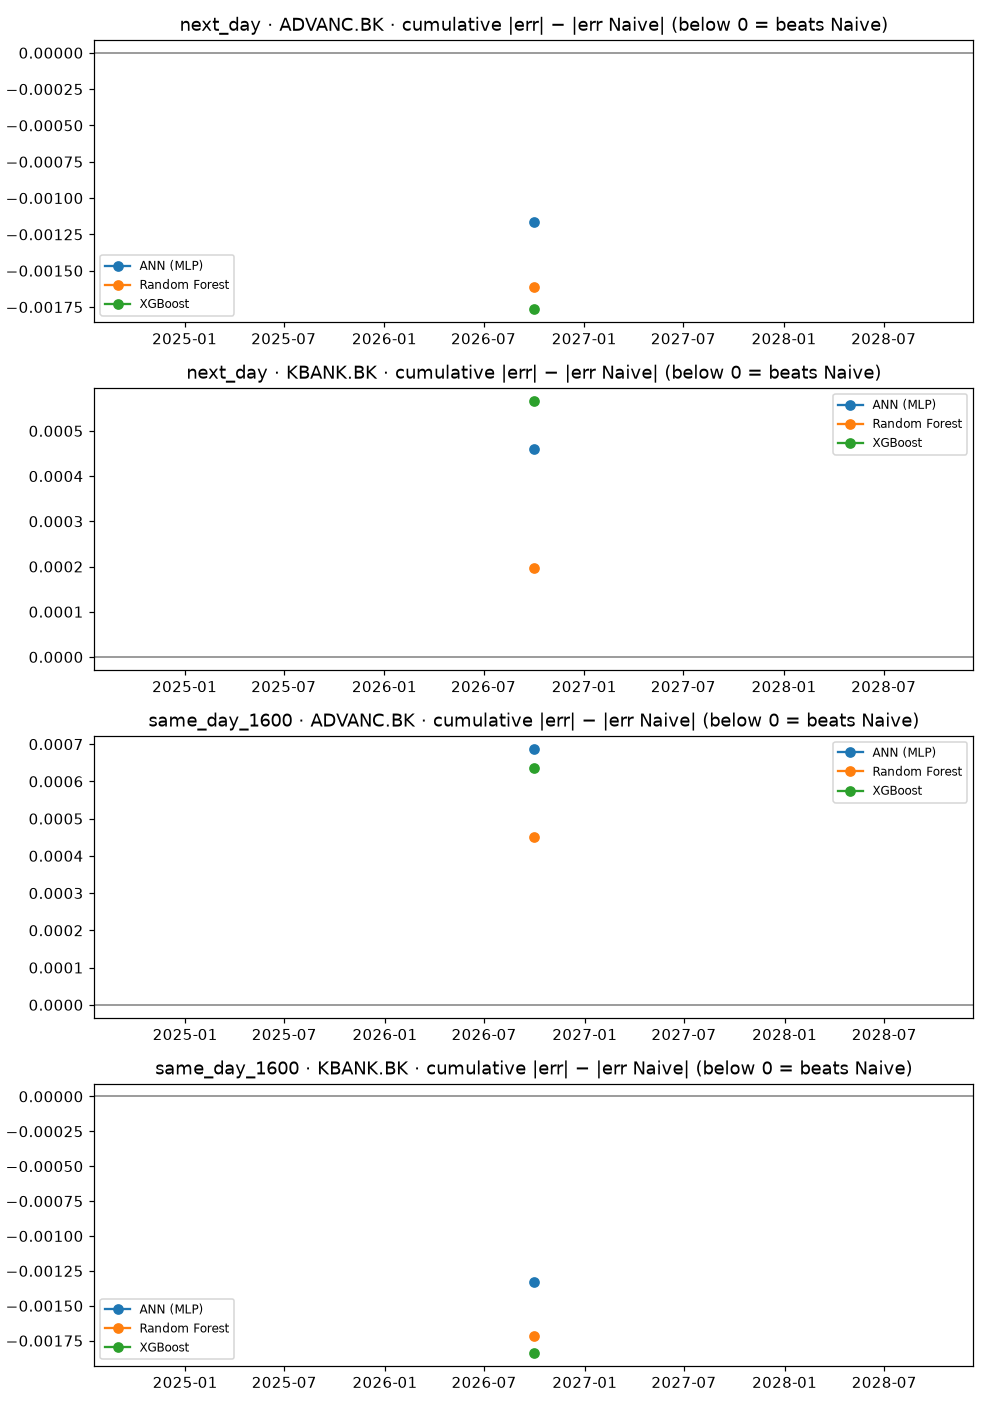
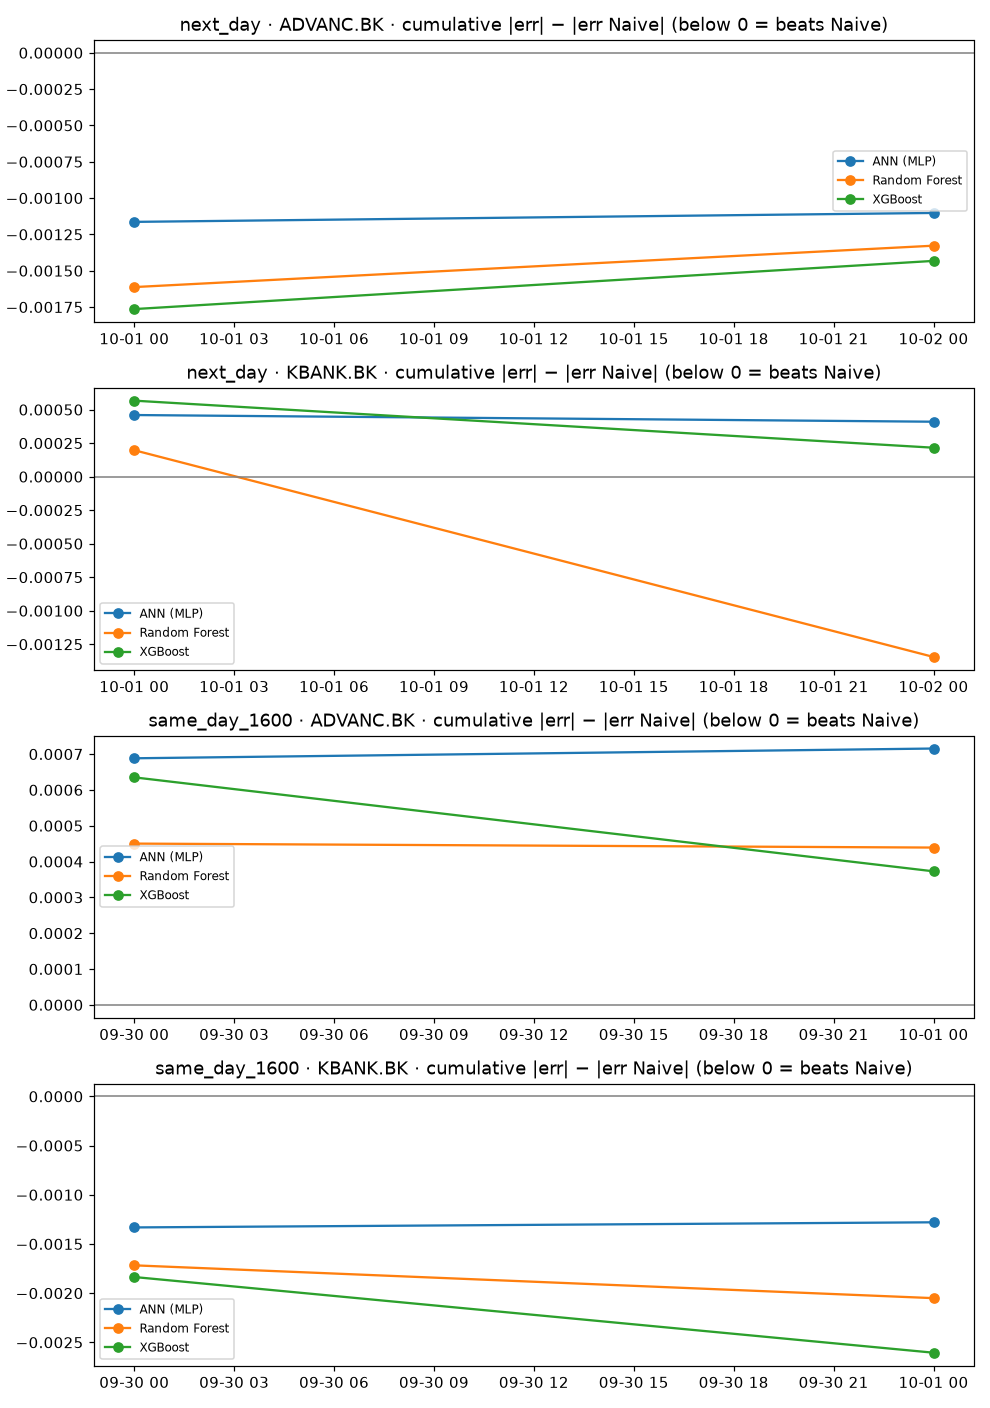
prediction log: 2026-10-05

diff --git a/task_b/results/live_report/live_report.md b/task_b/results/live_report/live_report.md
@@ -12,58 +12,23 @@
 
 | ticker | model | n | first_date | last_date | MAE_return | MAE_naive | relMAE | R2_OOS | RMSE_return | MAE_baht | wins | losses | ties | win_rate_ex_ties |
 |---|---|---|---|---|---|---|---|---|---|---|---|---|---|---|
-| ADVANC.BK | ANN (MLP) | 1 | 2026-10-01 | 2026-10-01 | 0.007608 | 0.008772 | 0.867323 | 0.247751 | 0.007608 | 2.601969 | 1 | 0 | 0 | 1.000000 |
-| ADVANC.BK | Random Forest | 1 | 2026-10-01 | 2026-10-01 | 0.007159 | 0.008772 | 0.816167 | 0.333872 | 0.007159 | 2.448501 | 1 | 0 | 0 | 1.000000 |
-| ADVANC.BK | XGBoost | 1 | 2026-10-01 | 2026-10-01 | 0.007008 | 0.008772 | 0.798899 | 0.361760 | 0.007008 | 2.396698 | 1 | 0 | 0 | 1.000000 |
-| KBANK.BK | ANN (MLP) | 1 | 2026-10-01 | 2026-10-01 | 0.004733 | 0.004274 | 1.107578 | -0.226729 | 0.004733 | 1.107578 | 0 | 1 | 0 | 0.000000 |
-| KBANK.BK | Random Forest | 1 | 2026-10-01 | 2026-10-01 | 0.004471 | 0.004274 | 1.046173 | -0.094477 | 0.004471 | 1.046173 | 0 | 1 | 0 | 0.000000 |
-| KBANK.BK | XGBoost | 1 | 2026-10-01 | 2026-10-01 | 0.004840 | 0.004274 | 1.132668 | -0.282937 | 0.004840 | 1.132668 | 0 | 1 | 0 | 0.000000 |
+| ADVANC.BK | ANN (MLP) | 2 | 2026-10-01 | 2026-10-02 | 0.003835 | 0.004386 | 0.874326 | 0.247702 | 0.005380 | 1.311581 | 1 | 1 | 0 | 0.500000 |
+| ADVANC.BK | Random Forest | 2 | 2026-10-01 | 2026-10-02 | 0.003722 | 0.004386 | 0.848647 | 0.332817 | 0.005066 | 1.273398 | 1 | 1 | 0 | 0.500000 |
+| ADVANC.BK | XGBoost | 2 | 2026-10-01 | 2026-10-02 | 0.003670 | 0.004386 | 0.836709 | 0.360330 | 0.004961 | 1.255562 | 1 | 1 | 0 | 0.500000 |
+| KBANK.BK | ANN (MLP) | 2 | 2026-10-01 | 2026-10-02 | 0.008779 | 0.008575 | 1.023900 | -0.015533 | 0.009667 | 2.047978 | 1 | 1 | 0 | 0.500000 |
+| KBANK.BK | Random Forest | 2 | 2026-10-01 | 2026-10-02 | 0.007902 | 0.008575 | 0.921583 | 0.193472 | 0.008615 | 1.843433 | 1 | 1 | 0 | 0.500000 |
+| KBANK.BK | XGBoost | 2 | 2026-10-01 | 2026-10-02 | 0.008683 | 0.008575 | 1.012595 | 0.020361 | 0.009495 | 2.025447 | 1 | 1 | 0 | 0.500000 |
 
 ### รูปร่างคำทำนาย ทิศทาง และสัญญาณ
 
 | ticker | model | Bias | StdRatio | Rho | zero_move_days | dir_hit_rate_moved_days | long_signal_days | long_signal_up_rate | prev_close_mismatch | enough_data |
 |---|---|---|---|---|---|---|---|---|---|---|
-| ADVANC.BK | ANN (MLP) | -0.007608 | NaN | NaN | 0 | 1.000000 | 0 | NaN | 0 | False |
-| ADVANC.BK | Random Forest | -0.007159 | NaN | NaN | 0 | 1.000000 | 0 | NaN | 0 | False |
-| ADVANC.BK | XGBoost | -0.007008 | NaN | NaN | 0 | 1.000000 | 0 | NaN | 0 | False |
-| KBANK.BK | ANN (MLP) | 0.004733 | NaN | NaN | 0 | 0.000000 | 0 | NaN | 0 | False |
-| KBANK.BK | Random Forest | 0.004471 | NaN | NaN | 0 | 0.000000 | 0 | NaN | 0 | False |
-| KBANK.BK | XGBoost | 0.004840 | NaN | NaN | 0 | 0.000000 | 0 | NaN | 0 | False |
-
-### ความครบและตรงเวลา
-
-| ticker | model | predictions | missing_trading_days | missing_dates | early_predictions | late_predictions |
-|---|---|---|---|---|---|---|
-| ADVANC.BK | ANN (MLP) | 1 | 0 |  | 0 | 0 |
-| ADVANC.BK | Random Forest | 1 | 0 |  | 0 | 0 |
-| ADVANC.BK | XGBoost | 1 | 0 |  | 0 | 0 |
-| KBANK.BK | ANN (MLP) | 1 | 0 |  | 0 | 0 |
-| KBANK.BK | Random Forest | 1 | 0 |  | 0 | 0 |
-| KBANK.BK | XGBoost | 1 | 0 |  | 0 | 0 |
-
-## same_day_1600
-
-### ความแม่นเทียบ Naive
-
-| ticker | model | n | first_date | last_date | MAE_return | MAE_naive | relMAE | R2_OOS | RMSE_return | MAE_baht | wins | losses | ties | win_rate_ex_ties |
-|---|---|---|---|---|---|---|---|---|---|---|---|---|---|---|
-| ADVANC.BK | ANN (MLP) | 1 | 2026-09-30 | 2026-09-30 | 0.000688 | 0.000000 | NaN | NaN | 0.000688 | 0.236766 | 0 | 1 | 0 | 0.000000 |
-| ADVANC.BK | Random Forest | 1 | 2026-09-30 | 2026-09-30 | 0.000450 | 0.000000 | NaN | NaN | 0.000450 | 0.154844 | 0 | 1 | 0 | 0.000000 |
-| ADVANC.BK | XGBoost | 1 | 2026-09-30 | 2026-09-30 | 0.000635 | 0.000000 | NaN | NaN | 0.000635 | 0.218452 | 0 | 1 | 0 | 0.000000 |
-| KBANK.BK | ANN (MLP) | 1 | 2026-09-30 | 2026-09-30 | 0.002960 | 0.004292 | 0.689669 | 0.524357 | 0.002960 | 0.689669 | 1 | 0 | 0 | 1.000000 |
-| KBANK.BK | Random Forest | 1 | 2026-09-30 | 2026-09-30 | 0.002575 | 0.004292 | 0.599888 | 0.640134 | 0.002575 | 0.599888 | 1 | 0 | 0 | 1.000000 |
-| KBANK.BK | XGBoost | 1 | 2026-09-30 | 2026-09-30 | 0.002456 | 0.004292 | 0.572203 | 0.672584 | 0.002456 | 0.572203 | 1 | 0 | 0 | 1.000000 |
-
-### รูปร่างคำทำนาย ทิศทาง และสัญญาณ
-
-| ticker | model | Bias | StdRatio | Rho | zero_move_days | dir_hit_rate_moved_days | long_signal_days | long_signal_up_rate | prev_close_mismatch | enough_data |
-|---|---|---|---|---|---|---|---|---|---|---|
-| ADVANC.BK | ANN (MLP) | 0.000688 | NaN | NaN | 1 | NaN | 0 | NaN | 0 | False |
-| ADVANC.BK | Random Forest | 0.000450 | NaN | NaN | 1 | NaN | 0 | NaN | 0 | False |
-| ADVANC.BK | XGBoost | 0.000635 | NaN | NaN | 1 | NaN | 0 | NaN | 0 | False |
-| KBANK.BK | ANN (MLP) | -0.002960 | NaN | NaN | 0 | 1.000000 | 0 | NaN | 0 | False |
-| KBANK.BK | Random Forest | -0.002575 | NaN | NaN | 0 | 1.000000 | 0 | NaN | 0 | False |
-| KBANK.BK | XGBoost | -0.002456 | NaN | NaN | 0 | 1.000000 | 0 | NaN | 0 | False |
+| ADVANC.BK | ANN (MLP) | -0.003835 | 0.139680 | NaN | 1 | 1.000000 | 0 | NaN | 0 | False |
+| ADVANC.BK | Random Forest | -0.003722 | 0.216313 | NaN | 1 | 1.000000 | 0 | NaN | 0 | False |
+| ADVANC.BK | XGBoost | -0.003670 | 0.238911 | NaN | 1 | 1.000000 | 0 | NaN | 0 | False |
+| KBANK.BK | ANN (MLP) | -0.004046 | 0.023900 | NaN | 0 | 0.500000 | 0 | NaN | 0 | False |
+| KBANK.BK | Random Forest | -0.003431 | 0.078417 | NaN | 0 | 0.500000 | 0 | NaN | 0 | False |
+| KBANK.BK | XGBoost | -0.003842 | 0.012595 | NaN | 0 | 0.500000 | 0 | NaN | 0 | False |
 
 ### ความครบและตรงเวลา
 
@@ -75,3 +40,38 @@
 | KBANK.BK | ANN (MLP) | 2 | 0 |  | 0 | 0 |
 | KBANK.BK | Random Forest | 2 | 0 |  | 0 | 0 |
 | KBANK.BK | XGBoost | 2 | 0 |  | 0 | 0 |
+
+## same_day_1600
+
+### ความแม่นเทียบ Naive
+
+| ticker | model | n | first_date | last_date | MAE_return | MAE_naive | relMAE | R2_OOS | RMSE_return | MAE_baht | wins | losses | ties | win_rate_ex_ties |
+|---|---|---|---|---|---|---|---|---|---|---|---|---|---|---|
+| ADVANC.BK | ANN (MLP) | 2 | 2026-09-30 | 2026-10-01 | 0.001807 | 0.001449 | 1.246849 | -0.075264 | 0.002125 | 0.623081 | 0 | 2 | 0 | 0.000000 |
+| ADVANC.BK | Random Forest | 2 | 2026-09-30 | 2026-10-01 | 0.001669 | 0.001449 | 1.151469 | -0.016481 | 0.002066 | 0.575510 | 1 | 1 | 0 | 0.500000 |
+| ADVANC.BK | XGBoost | 2 | 2026-09-30 | 2026-10-01 | 0.001636 | 0.001449 | 1.128592 | 0.124801 | 0.001917 | 0.563979 | 1 | 1 | 0 | 0.500000 |
+| KBANK.BK | ANN (MLP) | 2 | 2026-09-30 | 2026-10-01 | 0.003643 | 0.004283 | 0.850590 | 0.251078 | 0.003706 | 0.850935 | 1 | 1 | 0 | 0.500000 |
+| KBANK.BK | Random Forest | 2 | 2026-09-30 | 2026-10-01 | 0.003257 | 0.004283 | 0.760567 | 0.396133 | 0.003328 | 0.760912 | 2 | 0 | 0 | 1.000000 |
+| KBANK.BK | XGBoost | 2 | 2026-09-30 | 2026-10-01 | 0.002980 | 0.004283 | 0.695808 | 0.500876 | 0.003026 | 0.696074 | 2 | 0 | 0 | 1.000000 |
+
+### รูปร่างคำทำนาย ทิศทาง และสัญญาณ
+
+| ticker | model | Bias | StdRatio | Rho | zero_move_days | dir_hit_rate_moved_days | long_signal_days | long_signal_up_rate | prev_close_mismatch | enough_data |
+|---|---|---|---|---|---|---|---|---|---|---|
+| ADVANC.BK | ANN (MLP) | -0.001119 | 0.246849 | NaN | 1 | 0.000000 | 0 | NaN | 1 | False |
+| ADVANC.BK | Random Forest | -0.001219 | 0.151469 | NaN | 1 | 1.000000 | 0 | NaN | 1 | False |
+| ADVANC.BK | XGBoost | -0.001001 | 0.128592 | NaN | 1 | 1.000000 | 0 | NaN | 1 | False |
+| KBANK.BK | ANN (MLP) | 0.000683 | 0.149410 | NaN | 0 | 0.500000 | 0 | NaN | 0 | False |
+| KBANK.BK | Random Forest | 0.000683 | 0.239433 | NaN | 0 | 1.000000 | 0 | NaN | 0 | False |
+| KBANK.BK | XGBoost | 0.000524 | 0.304192 | NaN | 0 | 1.000000 | 0 | NaN | 0 | False |
+
+### ความครบและตรงเวลา
+
+| ticker | model | predictions | missing_trading_days | missing_dates | early_predictions | late_predictions |
+|---|---|---|---|---|---|---|
+| ADVANC.BK | ANN (MLP) | 3 | 0 |  | 0 | 0 |
+| ADVANC.BK | Random Forest | 3 | 0 |  | 0 | 0 |
+| ADVANC.BK | XGBoost | 3 | 0 |  | 0 | 0 |
+| KBANK.BK | ANN (MLP) | 3 | 0 |  | 0 | 0 |
+| KBANK.BK | Random Forest | 3 | 0 |  | 0 | 0 |
+| KBANK.BK | XGBoost | 3 | 0 |  | 0 | 0 |
